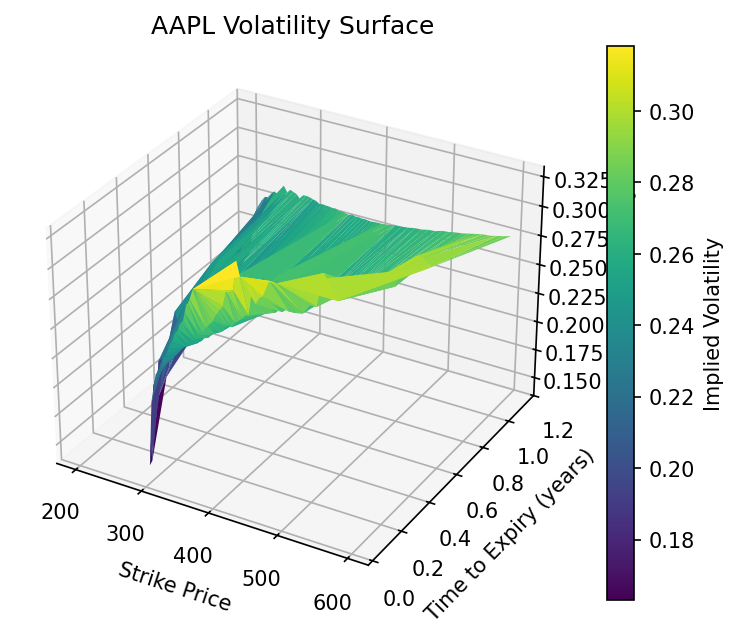
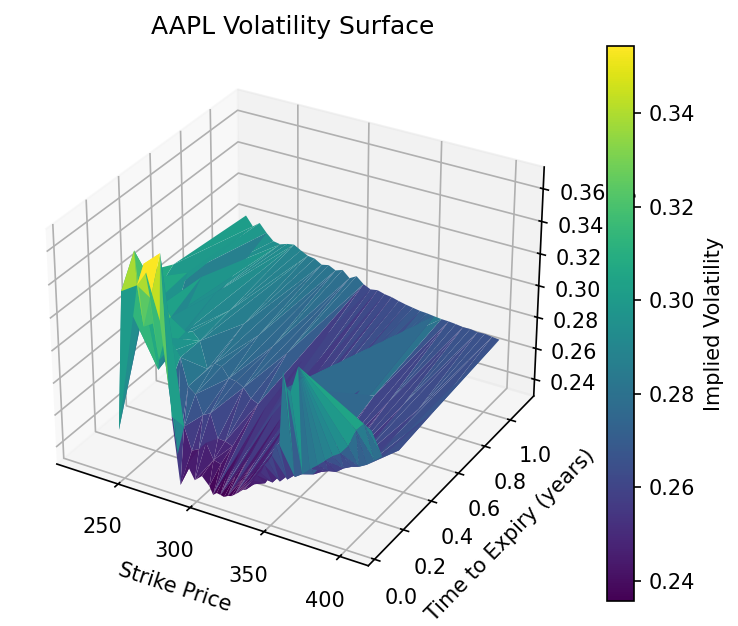
Add put-call parity checker with violation detection

diff --git a/parity_checker.py b/parity_checker.py
@@ -1,0 +1,62 @@
+import pandas as pd
+import yfinance as yf
+import numpy as np      
+import datetime     
+
+def get_basic(ticker_symbol,exp_date, r = 0.05):
+    ticker = yf.Ticker(ticker_symbol)
+    S = ticker.history(period='1d')['Close'].iloc[-1]
+    today = datetime.date.today()
+    expiry = datetime.datetime.strptime(exp_date,'%Y-%m-%d').date()
+    days_to_exp = expiry - today
+    T = days_to_exp.days /365
+    print(f"Current stock price: {S:.2f}")
+    chain = ticker.option_chain(exp_date)
+    calls = chain.calls
+    puts = chain.puts
+
+    diffs = []
+    violations = []
+
+    for index, call_row in calls.iterrows():
+        K = call_row['strike']
+        if K < 0.7 * S or K > 1.3 * S:
+            continue
+        market_callPrice = (call_row["bid"] + call_row["ask"])/2
+        if market_callPrice == 0:
+            continue
+        match_puts = puts[puts['strike'] == K]
+        if match_puts.empty:
+            continue
+        put_row = match_puts.iloc[0]
+        market_putPrice = (put_row["bid"] + put_row["ask"])/2
+        if market_putPrice == 0:
+            continue
+        left = market_callPrice - market_putPrice
+        right = S - K*np.exp(-r * T)
+        diff = left - right
+        diffs.append(diff)
+        if abs(diff) > 1.0:
+            violations.append(K)
+        print(f"K: {K} C: {market_callPrice:.2f} P: {market_putPrice:.2f} Difference: {diff:.4f}")
+
+    print(f"\n--- Summary ---")
+    print(f"Strikes checked: {len(diffs)}")
+    print(f"Average difference: {np.mean(diffs):.4f}")
+    print(f"Max violation: {max(diffs, key=abs):.4f}")
+    print(f"Strikes violating parity (diff > $1): {violations}")
+            
+
+
+        
+while(True):
+    ticker_symbol = input("Enter your stock: \n").upper()
+    exp_date = input("Enter expiration date (YYYY-MM-DD): \n")
+    get_basic(ticker_symbol,exp_date)
+    break
+    
+
+
+
+
+
